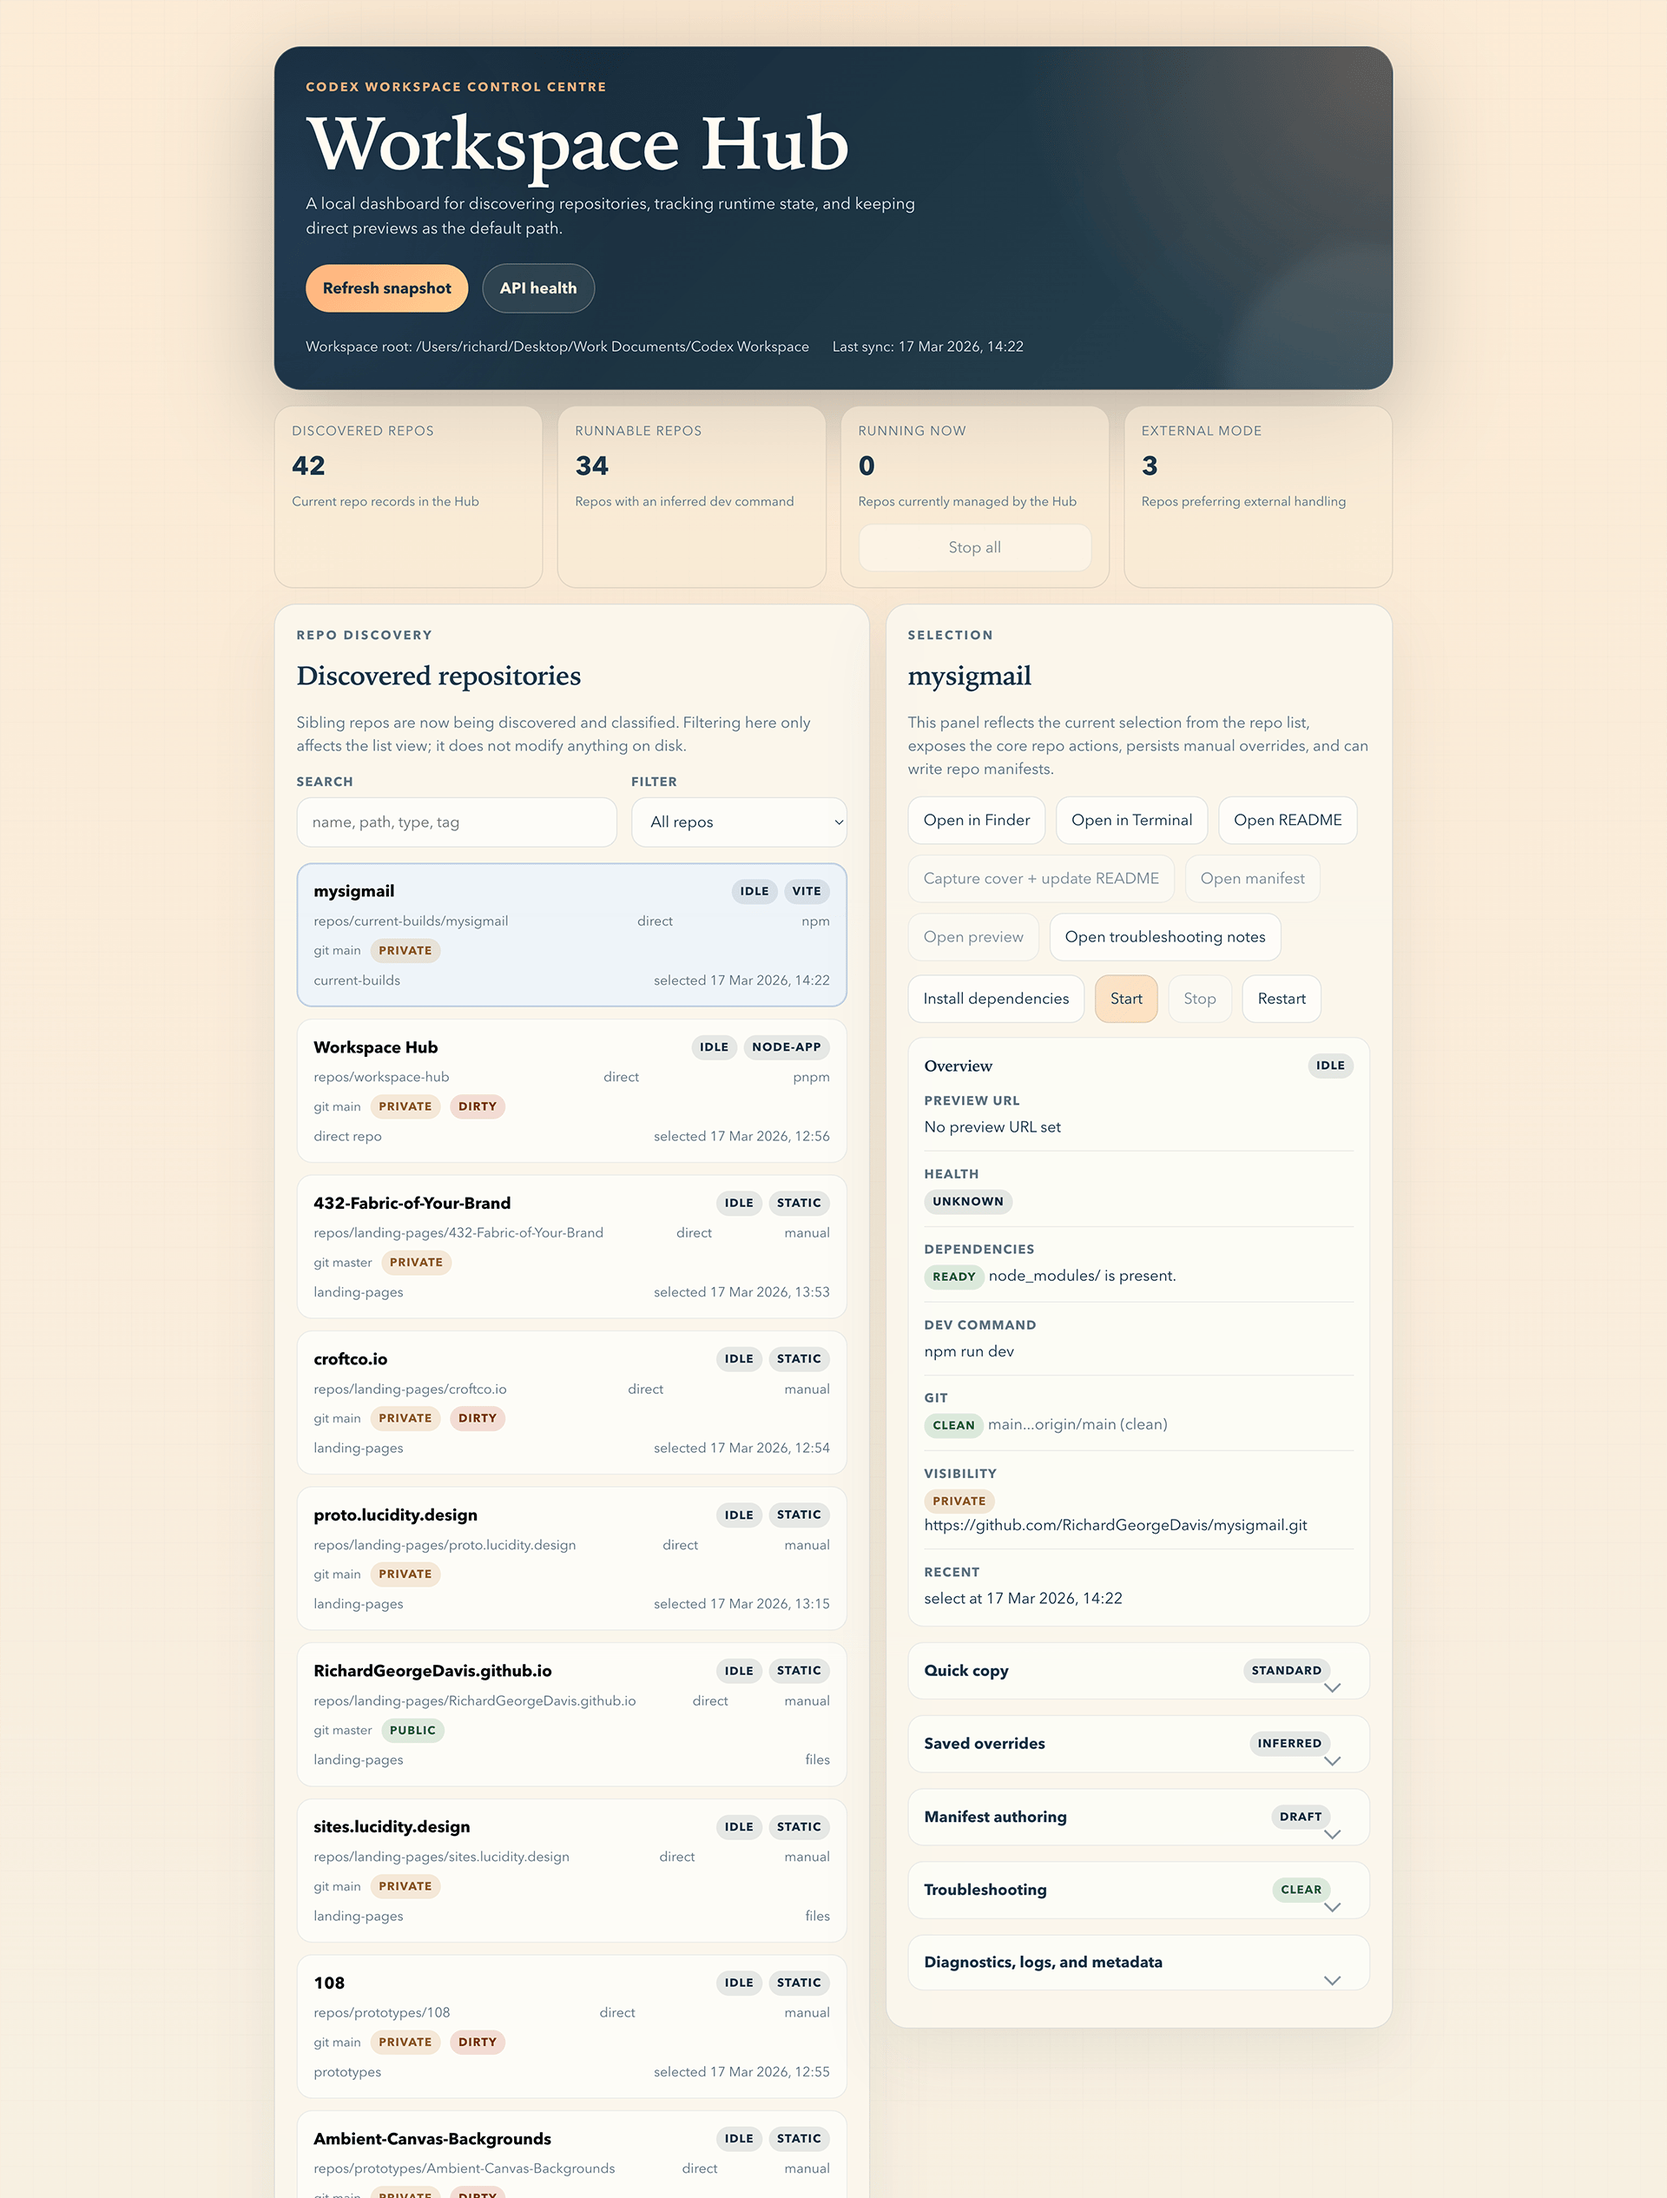
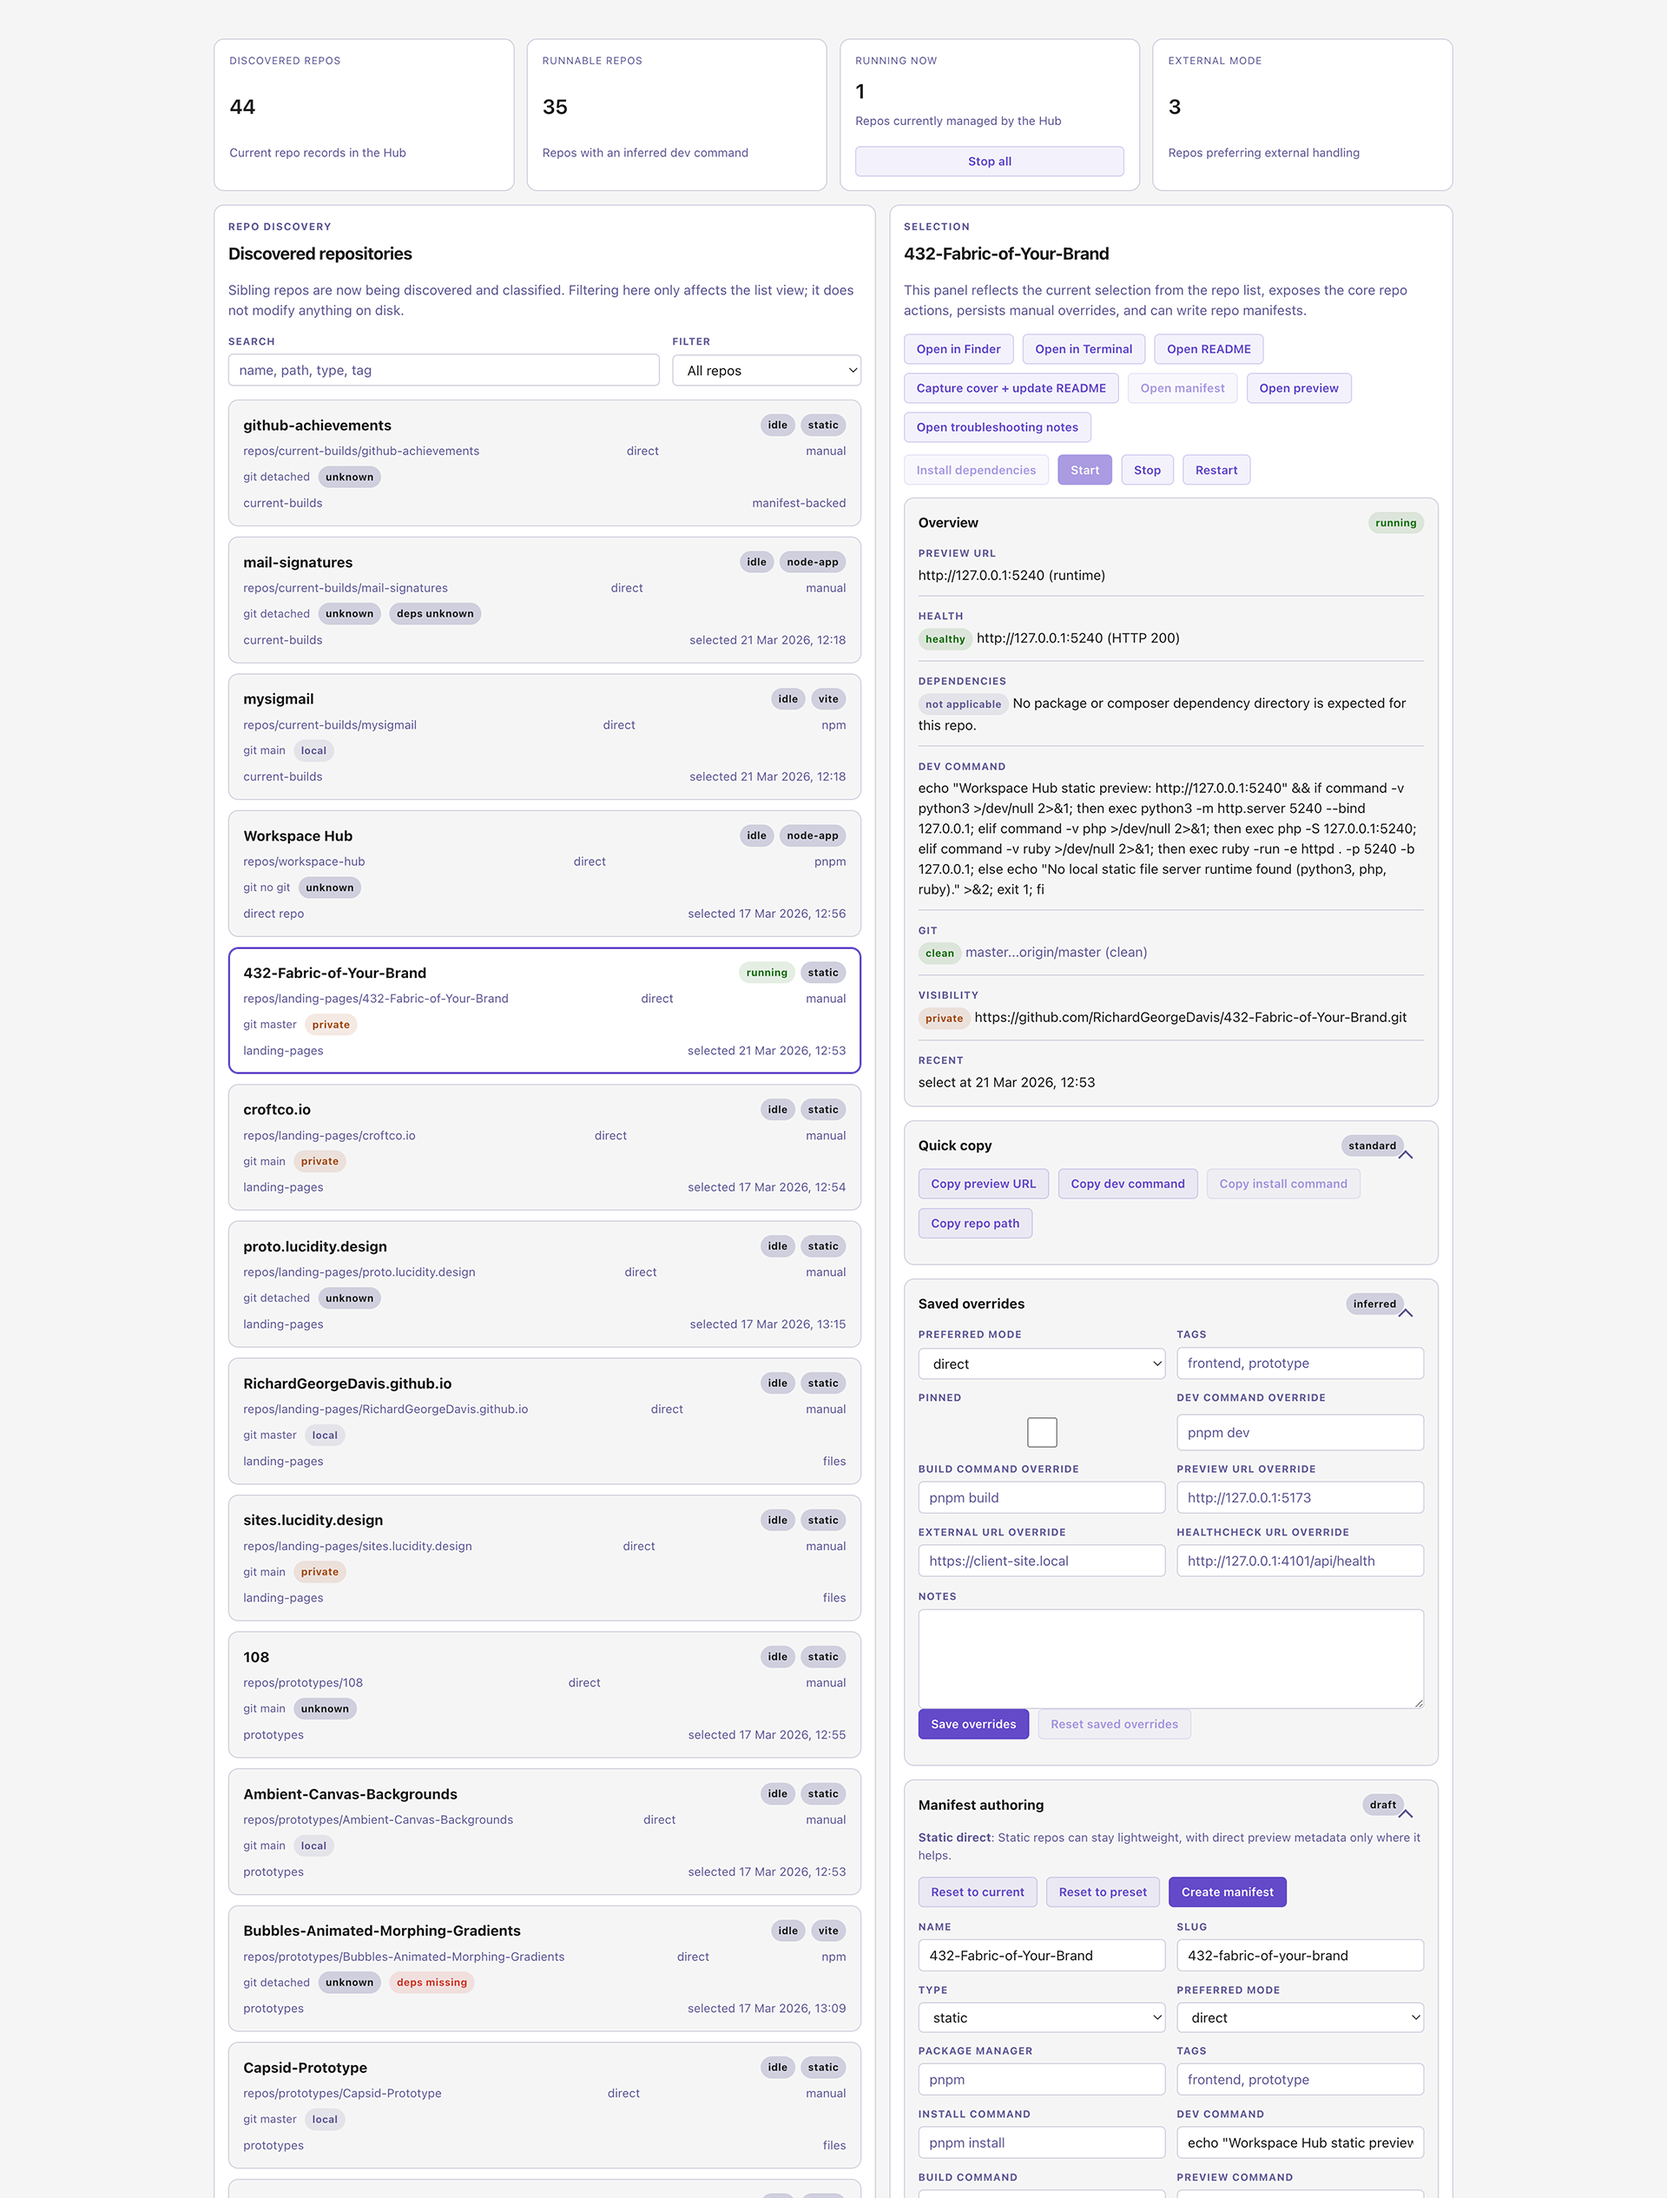
v0.1.4

diff --git a/shared/standards.md b/shared/standards.md
@@ -31,6 +31,17 @@ Codex Workspace keeps repositories portable and independently runnable.
 - Keep portable MCP examples separate from real credentials and machine-specific settings.
 - Store local-only agent config, exports, and secrets in ignored locations such as `tools/local/`.
 - Do not make AI-agent setup a required dependency for normal repo runtime.
+- Promote stable, broadly useful local guidance into tracked docs or skills instead of leaving it only in private notes.
+
+## Context Cache
+
+- Keep generated context summaries under `cache/context/`.
+- Treat generated `abstract.md` and `overview.md` files as cache layers, not source-of-truth docs.
+- Keep provenance metadata such as `sources.json` alongside generated summaries where helpful.
+- Read tracked docs and manifests before trusting stale generated summaries.
+- Keep local-only retrieval logs and operator memory untracked.
+- Keep classification and summary inputs explainable where practical.
+- Keep machine-specific operator memory separate from canonical repo facts.
 
 ## Runtime Defaults
 
